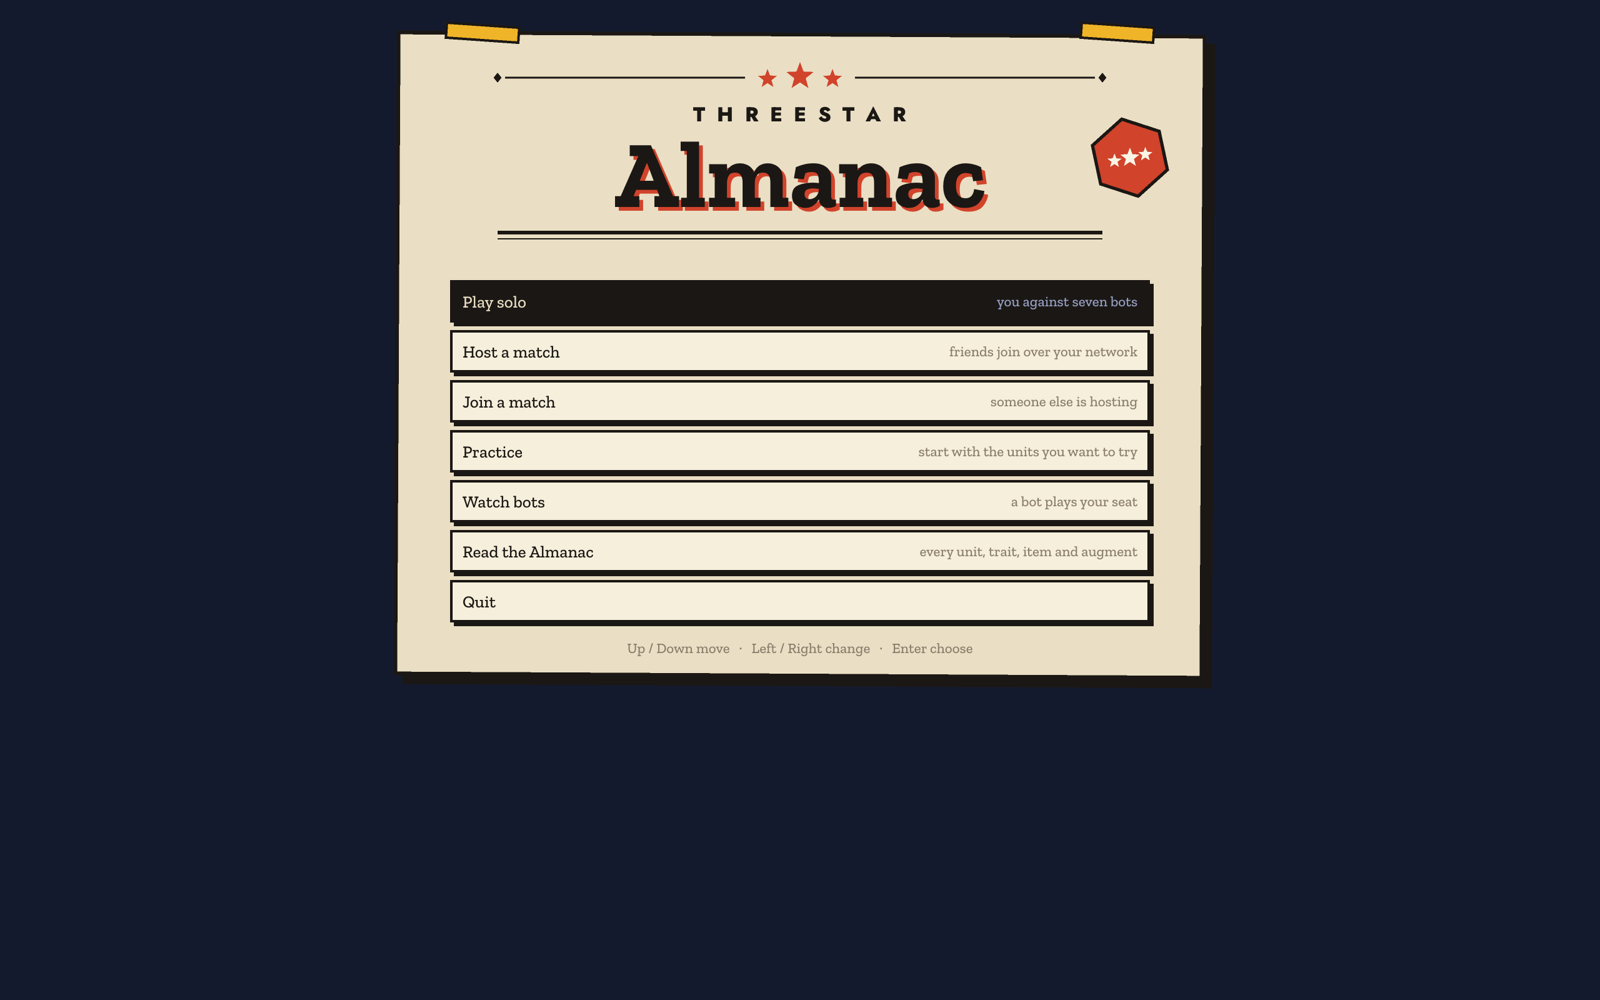
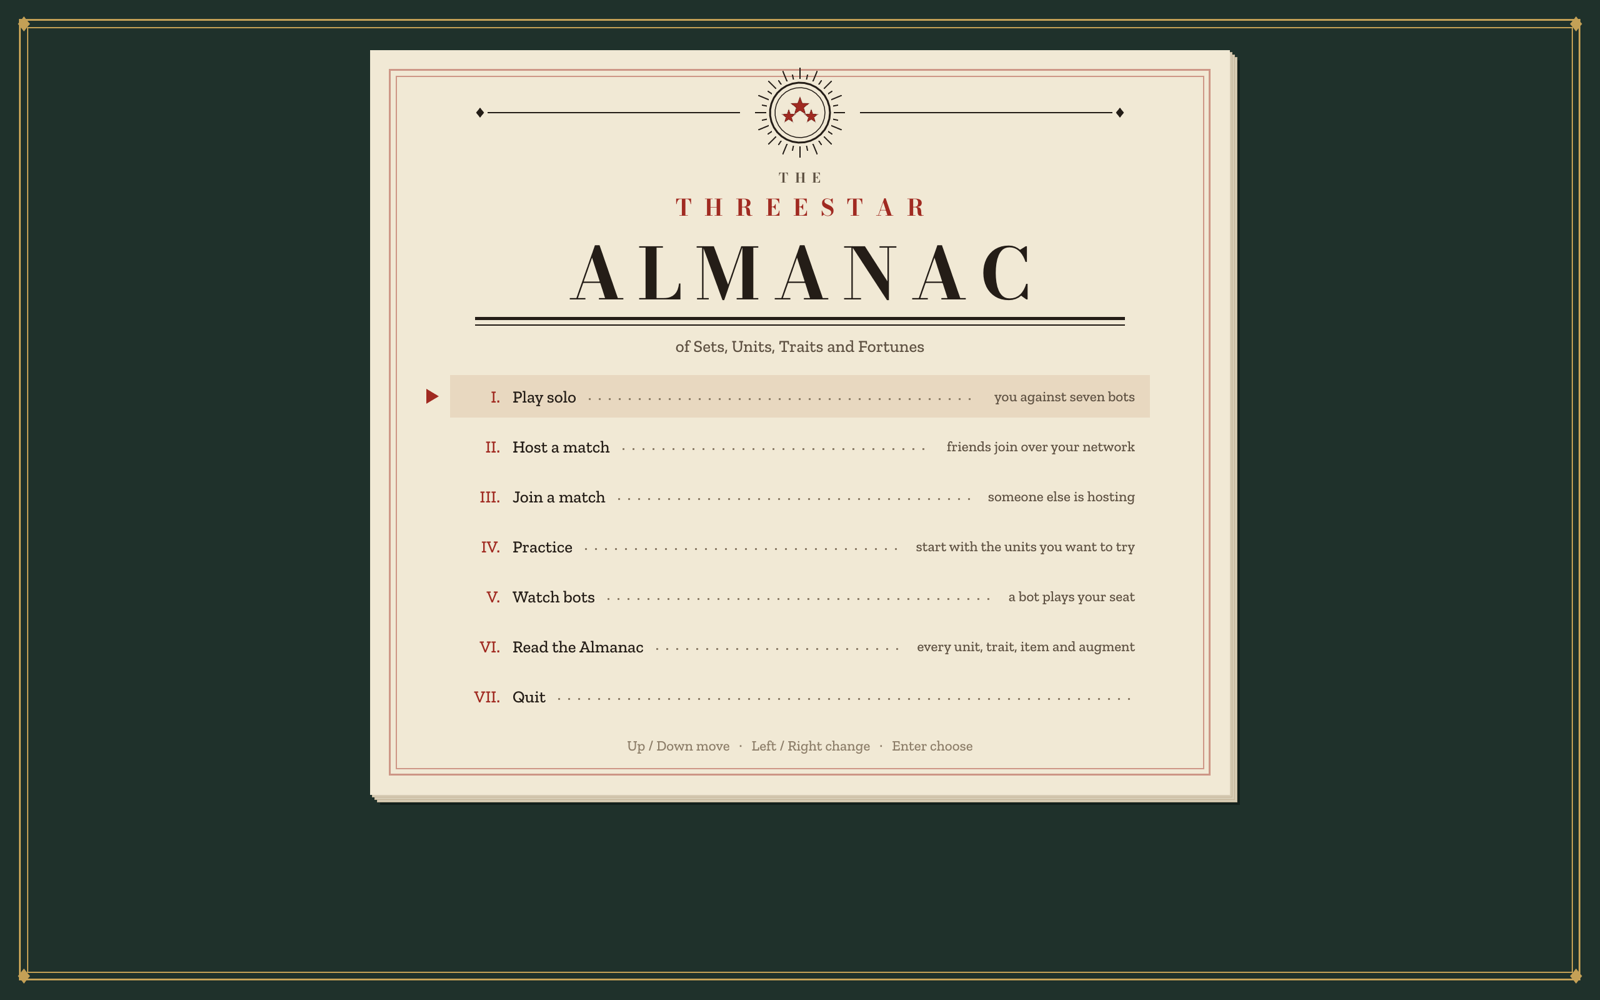
README: new screenshots of the menu and both sets

Changed region(s): [[0.0, 0.0, 1.0, 0.992]]

diff --git a/README.md b/README.md
@@ -2,12 +2,21 @@
 
 An autobattler. This repository holds its releases only.
 
-![A fight in the Night Market set](screenshots/fight.png)
+![The main menu](screenshots/home.png)
+
+**Dead Sun**: gothic, under a dying sun that sets at Dusk and goes out at the Eclipse.
 
 | | |
 |---|---|
-| ![Planning: shop, bench and an augment choice](screenshots/planning.png) | ![Abilities going off mid-fight](screenshots/abilities.png) |
-| ![The recipe book](screenshots/recipes.png) | ![The main menu](screenshots/home.png) |
+| ![A Dead Sun fight](screenshots/dead_sun_fight.png) | ![Planning in Dead Sun](screenshots/dead_sun_planning.png) |
+| ![Dead Sun's recipe book](screenshots/dead_sun_recipes.png) | |
+
+**Night Market**: ink and paper under strung lanterns.
+
+| | |
+|---|---|
+| ![A Night Market fight](screenshots/night_market_fight.png) | ![Planning in Night Market](screenshots/night_market_planning.png) |
+| ![Night Market's recipe book](screenshots/night_market_recipes.png) | |
 
 **To play**, download the launcher for your system once:
 
